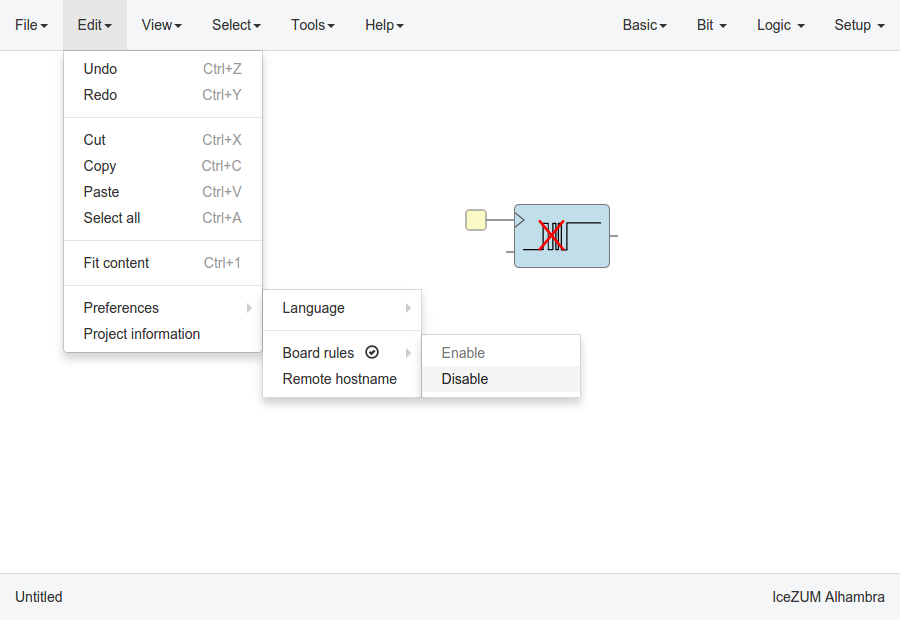
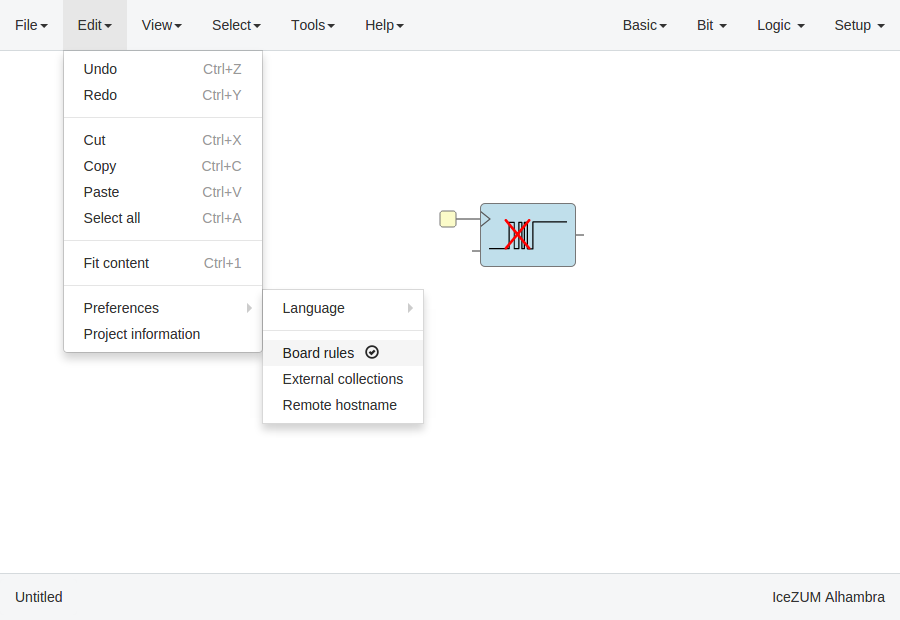
Update Board rules docs

diff --git a/docs/source/howto.rst b/docs/source/howto.rst
@@ -454,7 +454,7 @@ Go to **View > Board rules**
 Disable the board rules
 -----------------------
 
-Go to **Edit > Preferences > Board rules > Disable**
+Go to **Edit > Preferences > Board rules**
 
 .. image:: ../resources/images/howto/disable-rules.png
 
